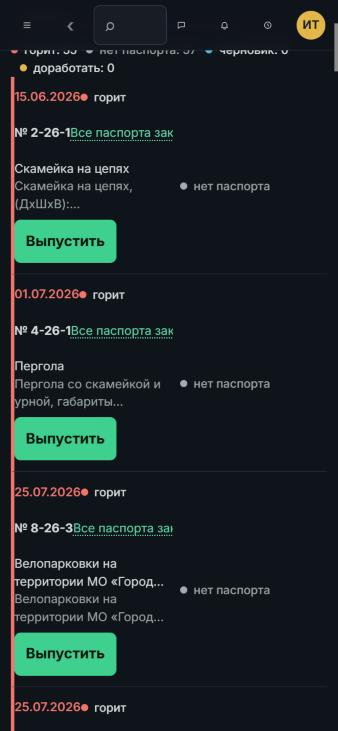
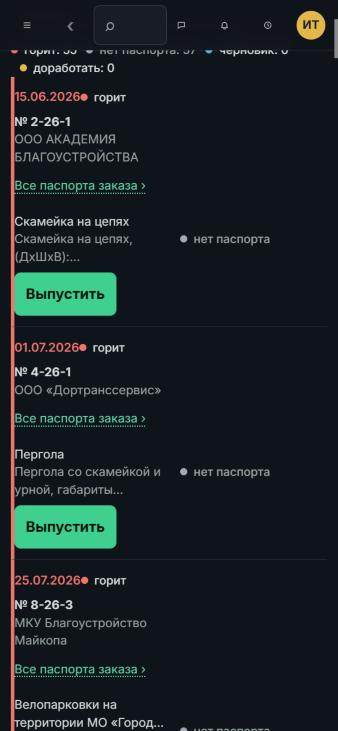
fix(pwa): очередь паспортов на телефоне — номер, заказчик и «Все паспорта заказа» друг под другом
Замечание дизайнера 15.11; снимок — docs/crew/C122-part-work/docs-queue-375.jpg (стенд).

Класс: S
Дизайнер: принято
🏠 Продолжаю работать дома

diff --git a/backend/pwa/sections/docs-queue.js b/backend/pwa/sections/docs-queue.js
@@ -43,8 +43,8 @@ export function mountQueueTab(params) {
     return h('tr', { class: r.hot ? 'tone-danger k-toned' : '' },
       h('td', { class: 'nowrap' }, r.shipDate ? h('span', { class: r.hot ? 'neg' : '' }, date(r.shipDate)) : h('span', { class: 'muted' }, 'без срока'), r.hot ? h('span', { title: 'До отгрузки не больше 3 дней или срок прошёл' }, badge('горит', 'danger')) : null),
       // C111 Ш6: длинные заказчик и описание — до 2 строк (kit.clamp), таблица не шире области; «Состояние» и кнопка видны
-      h('td', null, h('b', { class: 'nowrap' }, '№ ' + (r.productionNo || r.orderNo || '—') + ((r.seqNo ?? r.lineNo) ? '-' + (r.seqNo ?? r.lineNo) : '')), r.customer ? clamp(r.customer, { lines: 2, cls: 'muted' }) : null,
-        r.orderId ? h('div', null, link({ label: 'Все паспорта заказа ›', title: 'Выпустить и распечатать паспорта по всем позициям заказа', onClick: () => openOrderPassports(r.orderId) })) : null),
+      h('td', null, h('div', null, h('b', { class: 'nowrap' }, '№ ' + (r.productionNo || r.orderNo || '—') + ((r.seqNo ?? r.lineNo) ? '-' + (r.seqNo ?? r.lineNo) : '')), r.customer ? clamp(r.customer, { lines: 2, cls: 'muted' }) : null,
+        r.orderId ? h('div', null, link({ label: 'Все паспорта заказа ›', title: 'Выпустить и распечатать паспорта по всем позициям заказа', onClick: () => openOrderPassports(r.orderId) })) : null)), // одна колонка: на телефоне ячейка flex — ссылка липла к номеру (дизайнер 15.11)
       h('td', null, h('div', null, clamp(r.productName || r.title || '—', { lines: 2 }), r.productName && r.title && r.title !== r.productName ? clamp(r.title, { lines: 2, cls: 'muted' }) : null)), // одна колонка: на телефоне ячейка flex — без обёртки имя и описание шли рядом «столбиком» (обход 15.11, правило e)
       h('td', null, badge(stLabel, stTone)),
       h('td', { class: 'right' }, canEditTexts() && session.canEdit ? btn : null));
